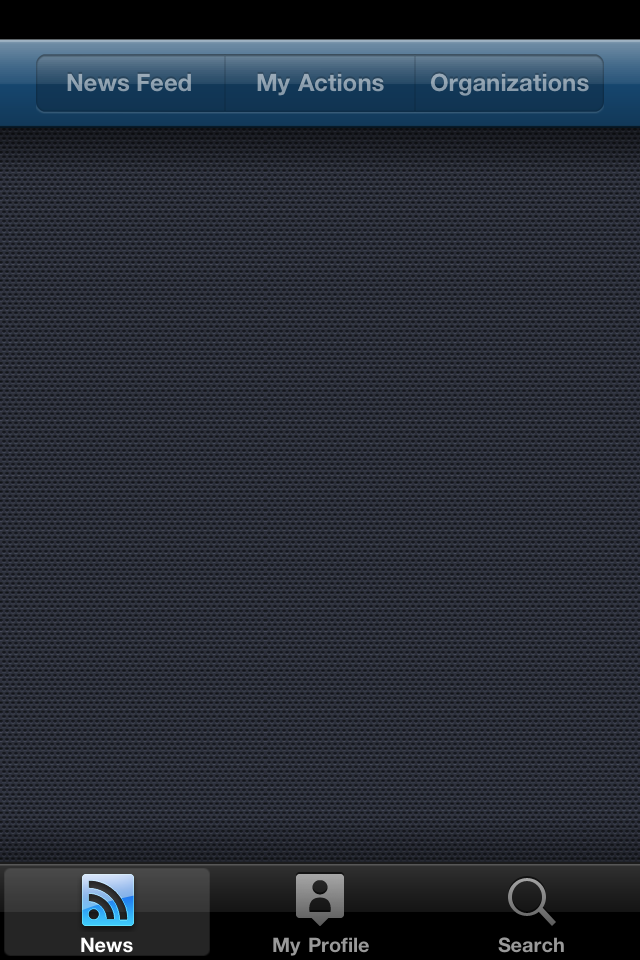
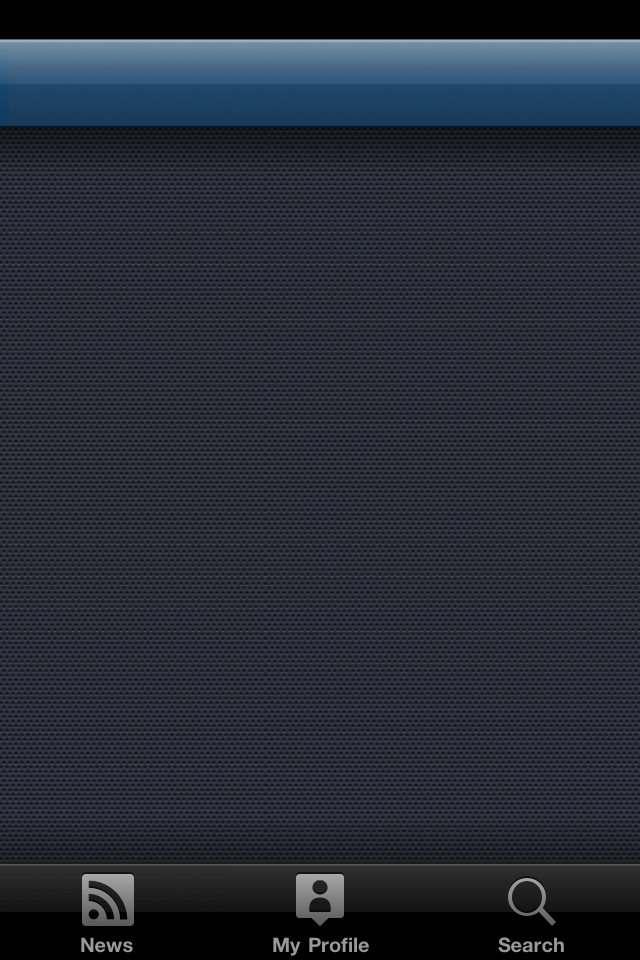
updated Default.png's for iPhone to play nicely with serialization

diff --git a/iGithub/iPhone/iGithubAppDelegate_iPhone.h b/iGithub/iPhone/iGithubAppDelegate_iPhone.h
@@ -15,7 +15,6 @@
 #import "GHSearchViewController.h"
 
 #warning save expansion states
-#warning update default.pngs (make 2 new defaults)
 #warning Icons for folders and files in browse content
 #warning Update news feed cell for push payload to use one label
 #warning adopt heightForContent on iPhone
